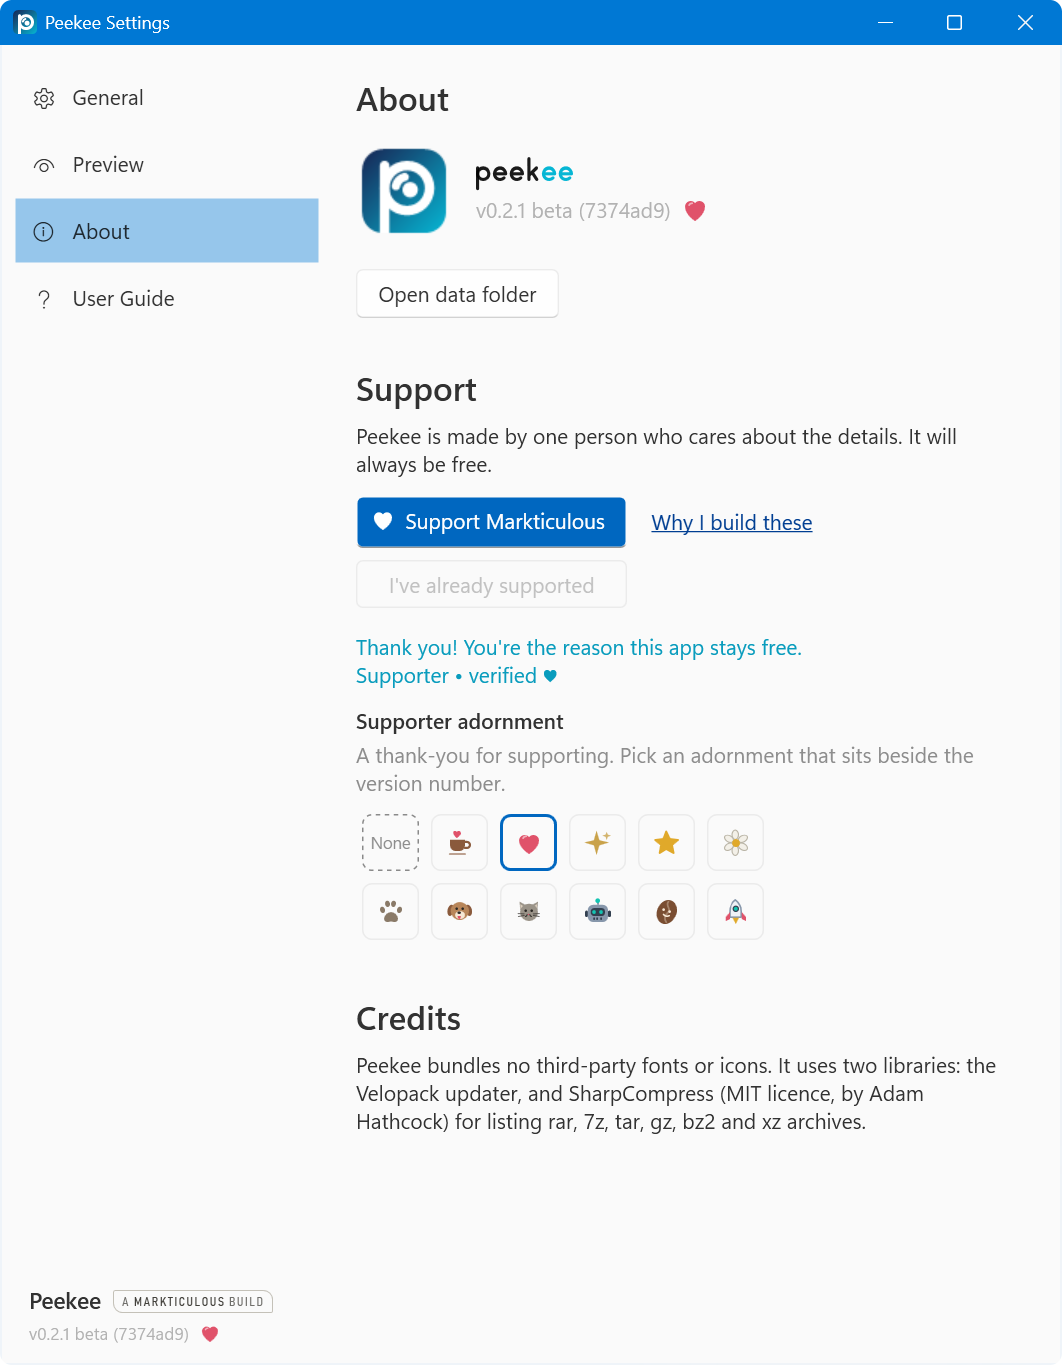
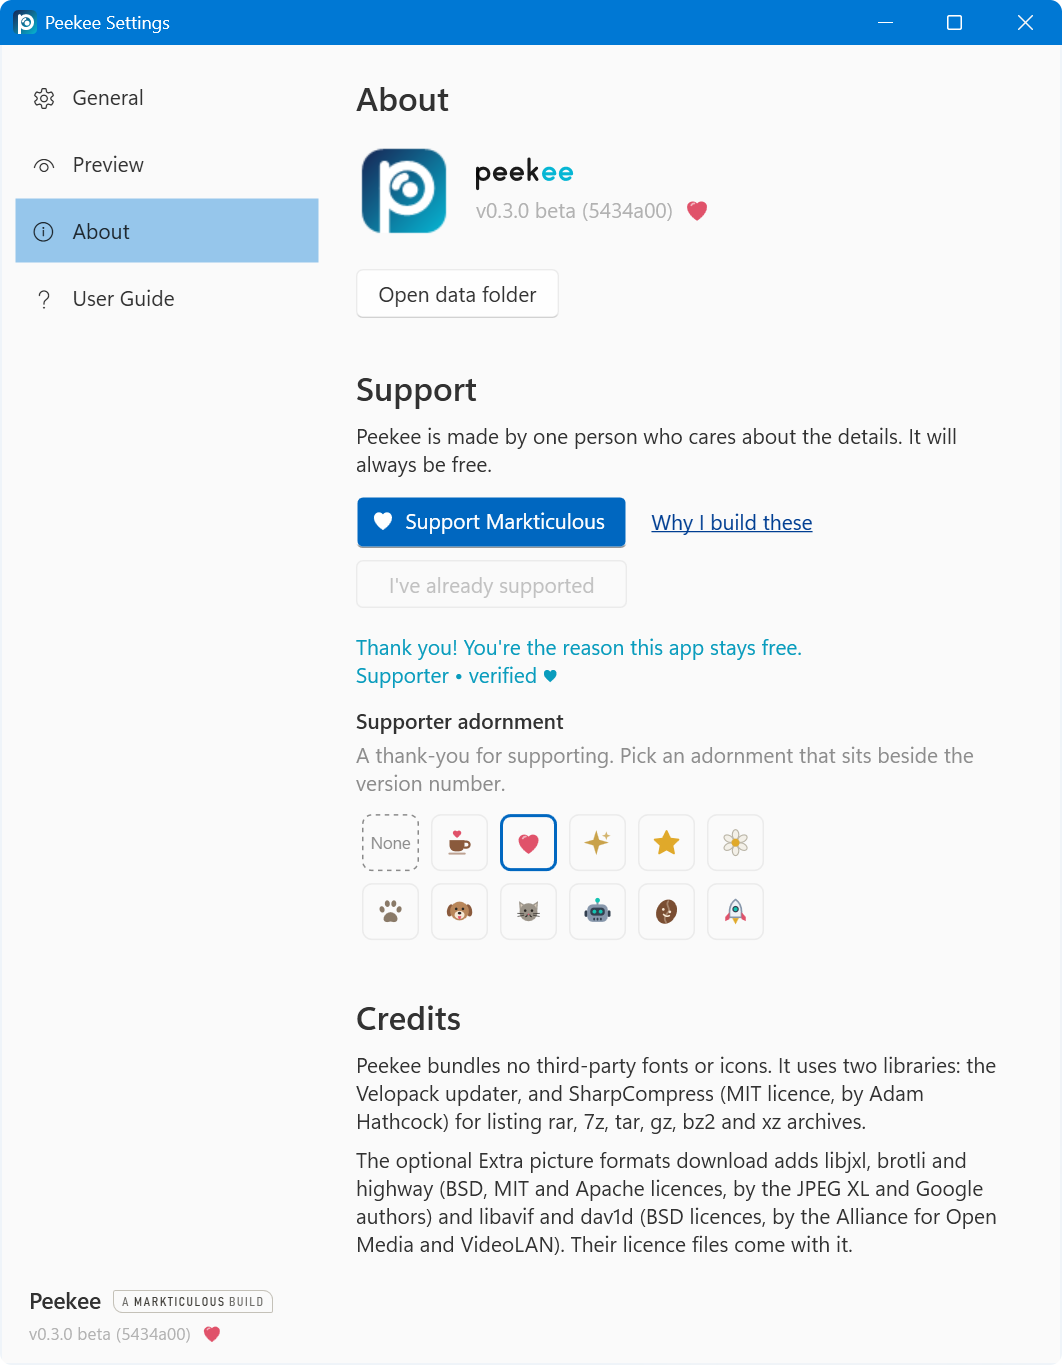
chore(guides): match the User Guides to the latest releases

diff --git a/guides/peekee/index.html b/guides/peekee/index.html
@@ -443,6 +443,8 @@ figcaption { margin-top: 10px; font-family: var(--sans); font-size: 13px; color:
         <dd>Closes the preview. This works whichever key you chose to open it.</dd>
         <dt>Arrow keys, Home, End, Page Up and Page Down</dt>
         <dd>Move the selection in the window behind, as they always do, and the preview follows to the new file. You do not have to close it first.</dd>
+        <dt>Left and Right on a file with pages</dt>
+        <dd>When the preview shows a file with several pages, such as a TIFF, an Illustrator file or a PDF drawn by Windows, <kbd>Right</kbd> turns to the next page and <kbd>Left</kbd> to the previous one. On the last page, <kbd>Right</kbd> goes back to the window behind, so in an Icons view it moves on to the next file; on the first page, <kbd>Left</kbd> does the same. PDFs shown by Edge and Office files shown by Office keep their own scrolling: use the mouse wheel there.</dd>
         <dt>Several files selected</dt>
         <dd>The preview shows the focused file, and the header says how many are selected.</dd>
         <dt>Dragging an edge</dt>
@@ -460,7 +462,7 @@ figcaption { margin-top: 10px; font-family: var(--sans); font-size: 13px; color:
           <tr><td>Copy</td><td>Copies what you are looking at. A text file (up to the largest size set in Settings) is copied as text, a picture as a picture (a PDF or multi-page TIFF copies the page showing), and anything else, including a folder, as the file itself, so Paste in File Explorer copies it.</td></tr>
           <tr><td>Copy path</td><td>Copies the full path of the file as text.</td></tr>
           <tr><td>Close</td><td>Closes the preview.</td></tr>
-          <tr><td>Previous page and Next page</td><td>Appear only for files with pages, such as a PDF or a TIFF with several pages.</td></tr>
+          <tr><td>Previous page and Next page</td><td>Appear only for files with pages, such as a PDF or a TIFF with several pages. <kbd>Left</kbd> and <kbd>Right</kbd> do the same.</td></tr>
           <tr><td>Fit page, Fit width, 100 percent, Zoom out and Zoom in</td><td>Appear for a PDF drawn by Windows. Zoom steps are 25, 50, 75, 100, 125, 150, 200, 300 and 400 percent. A button that would change nothing is greyed out.</td></tr>
         </tbody>
       </table>
@@ -525,7 +527,7 @@ figcaption { margin-top: 10px; font-family: var(--sans); font-size: 13px; color:
         <dt>General</dt>
         <dd><strong>Open the preview with</strong> is <strong>Space</strong>, <strong>Ctrl + Space</strong> or <strong>Shift + Space</strong>. Space also closes the preview, and Esc always does. If another Markticulous app already uses the combination, a warning under the setting says so; you can still choose it. <strong>Work in Open and Save dialogs</strong> lets Peekee preview inside the file dialogs of other programs. <strong>Start with Windows</strong> opens Peekee in the tray when you sign in. <strong>Check for updates automatically</strong> lets Peekee look for a newer version (see <a href="#privacy">Your privacy</a>), and <strong>Check now</strong> looks straight away. <strong>Restart to update</strong> is greyed out until an update has been downloaded.</dd>
         <dt>Preview</dt>
-        <dd><strong>Window size</strong> sets how much of the screen a preview takes at first, from 30 to 90 percent. <strong>Remember the size I drag the window to</strong> keeps the size you chose by dragging an edge, and <strong>Forget the remembered size</strong> goes back to the setting above. <strong>Show the line at the bottom</strong> turns the footer (type, size, date) on or off. <strong>Images open</strong> is <strong>Fitted to the window</strong> or <strong>At 100 percent</strong>. <strong>Background behind pictures</strong> is the colour that fills the preview behind pictures, SVG files and the pages drawn by the Windows PDF renderer. Choose the window colour (light or dark with the theme, and the default), white, light grey, neutral grey (18 percent), dark grey or black. <strong>Show a checkerboard behind transparent parts</strong> (on by default) puts a checkerboard under the picture itself, so transparent areas show; with it off they show the background colour. An SVG with the checkerboard off and the window colour chosen keeps an automatic light or dark card. <strong>PDF files</strong> is <strong>Interactive</strong> (Edge or an installed previewer first) or <strong>As images</strong> (pages drawn by Windows). Under <strong>Text</strong>, <strong>Font size</strong> and <strong>Largest file shown</strong> (1, 2, 5, 10 or 20 MB) control text and code files. Larger files show their first part only.</dd>
+        <dd><strong>Window size</strong> sets how much of the screen a preview takes at first, from 30 to 90 percent. <strong>Remember the size I drag the window to</strong> keeps the size you chose by dragging an edge, and <strong>Forget the remembered size</strong> goes back to the setting above. <strong>Show the line at the bottom</strong> turns the footer (type, size, date) on or off. <strong>Images open</strong> is <strong>Fitted to the window</strong> or <strong>At 100 percent</strong>. <strong>Background behind pictures</strong> is the colour that fills the preview behind pictures, SVG files and the pages drawn by the Windows PDF renderer. Choose the window colour (light or dark with the theme, and the default), white, light grey, neutral grey (18 percent), dark grey or black. <strong>Show a checkerboard behind transparent parts</strong> (on by default) puts a checkerboard under the picture itself, so transparent areas show; with it off they show the background colour. An SVG with the checkerboard off and the window colour chosen keeps an automatic light or dark card. <strong>PDF files</strong> is <strong>Interactive</strong> (Edge or an installed previewer first) or <strong>As images</strong> (pages drawn by Windows). Under <strong>Text</strong>, <strong>Font size</strong> and <strong>Largest file shown</strong> (1, 2, 5, 10 or 20 MB) control text and code files. Larger files show their first part only. <strong>Extra picture formats</strong> adds Peekee's own reader for JPEG XL and AVIF pictures, which Windows cannot open without an extension from the Microsoft Store. Click <strong>Add</strong> to download it (1.4 MB); nothing is downloaded until you do. <strong>Remove</strong> deletes it again. Peekee checks the download against a fingerprint it carries and does not use a file that does not match.</dd>
         <dt>About</dt>
         <dd>The Peekee name drawn as a wordmark beside the app icon, the version, <strong>Open data folder</strong> (where Peekee keeps its settings), the support section (see <a href="#support">Support Markticulous</a>) and the credits.</dd>
         <dt>User Guide</dt>
@@ -620,20 +622,22 @@ figcaption { margin-top: 10px; font-family: var(--sans); font-size: 13px; color:
       <table class="ref types">
         <thead><tr><th>Kind</th><th>Extensions</th><th>How it is shown</th></tr></thead>
         <tbody>
-          <tr><td>Pictures</td><td><code>.png .jpg .jpeg .gif .webp .bmp .ico .tif .tiff</code></td><td>Drawn by Windows. GIFs play; TIFFs with several pages show one page at a time.</td></tr>
-          <tr><td>Pictures with a codec</td><td>.heic .avif and others</td><td>Shown when Windows has the codec installed (for example the HEIF and AV1 extensions from the Microsoft Store).</td></tr>
+          <tr><td>Pictures</td><td><code>.png .jpg .jpeg .jpe .jfif .gif .webp .bmp .dib .ico .cur .tif .tiff .jxr .wdp .dds</code></td><td>Drawn by Windows. GIFs play; TIFFs with several pages show one page at a time.</td></tr>
+          <tr><td>Pictures with a codec</td><td>.heic .heif and others</td><td>Shown when Windows has the codec installed (for example the HEIF extension from the Microsoft Store).</td></tr>
+          <tr><td>JPEG XL and AVIF</td><td>.jxl .avif</td><td>Shown when Windows has the codec, or after you add <strong>Extra picture formats</strong> in Settings.</td></tr>
           <tr><td>Photoshop</td><td><code>.psd .psb</code></td><td>The flattened image Photoshop stores in the file; RGB, grey, CMYK, indexed and 1-bit, 8 and 16 bits. No layers.</td></tr>
           <tr><td>Illustrator</td><td><code>.ai .ait</code></td><td>Files saved with PDF compatibility (the default since Illustrator CS) open in the PDF view.</td></tr>
           <tr><td>Amiga and Atari pictures</td><td><code>.iff .ilbm .lbm .ham6 .ham8 .acbm .rgb8 .rgbn</code></td><td>Drawn by Peekee itself, including HAM, half-brite and pictures that change palette line by line.</td></tr>
-          <tr><td>SVG</td><td><code>.svg</code></td><td>Drawn by Peekee: shapes, paths, fills, strokes and gradients. Text and filters are left out.</td></tr>
+          <tr><td>SVG</td><td><code>.svg .svgz</code></td><td>Drawn by Peekee: shapes, paths, fills, strokes and gradients. Text and filters are left out.</td></tr>
           <tr><td>PDF</td><td><code>.pdf</code></td><td>Edge's previewer or your PDF previewer first, or the pages drawn by Windows, with zoom and page buttons.</td></tr>
           <tr><td>Office</td><td>.docx .xlsx .pptx and older Office files</td><td>Through the previewers Office installs. Without Office, the information card.</td></tr>
           <tr><td>Email</td><td><code>.eml .msg</code></td><td>Through the previewer Outlook or Windows installs, when there is one.</td></tr>
           <tr><td>WordPerfect</td><td><code>.wpd .wp .wp5 .wp6 .wp7</code></td><td>The text only, read by Peekee, for WordPerfect 5 and 6 onwards.</td></tr>
+          <tr><td>Rich Text</td><td><code>.rtf</code></td><td>Shown as a formatted page, read by Windows' own RTF reader.</td></tr>
           <tr><td>Markdown</td><td><code>.md .markdown</code></td><td>Shown as a formatted page, with pictures from the same folder.</td></tr>
-          <tr><td>Data</td><td><code>.csv .tsv .json</code></td><td>CSV and TSV as a table; JSON laid out with indents.</td></tr>
-          <tr><td>Text and code</td><td><code>.txt .log .ini .cfg .conf .config .xml .yaml .yml .toml .html .htm .css .scss .js .ts .tsx .jsx .vue .py .ps1 .psm1 .bat .cmd .sh .sql .cs .vb .xaml .razor .cshtml .c .h .cpp .hpp .java .kt .swift .go .rs .rb .php .lua .tex .reg .srt .nfo .diff .patch .csproj .sln .slnx .props .targets .resx .editorconfig .gitignore</code></td><td>With line numbers. Any other file that turns out to be text is shown the same way.</td></tr>
-          <tr><td>Archives</td><td><code>.zip .7z .rar .tar .tar.gz .tgz .tar.bz2 .tar.xz .gz .bz2 .xz .iso .cab .lzh .lha .jar .nupkg .vsix</code></td><td>The list of what is inside, with sizes and dates. Nothing is unpacked.</td></tr>
+          <tr><td>Data</td><td><code>.csv .tsv .json .ipynb</code></td><td>CSV and TSV as a table; JSON laid out with indents.</td></tr>
+          <tr><td>Text and code</td><td><code>.txt .log .ini .cfg .conf .config .xml .yaml .yml .toml .html .htm .css .scss .js .ts .tsx .jsx .vue .py .ps1 .psm1 .bat .cmd .sh .sql .cs .vb .xaml .razor .cshtml .c .h .cpp .hpp .java .kt .swift .go .rs .rb .php .lua .tex .reg .srt .nfo .diff .patch .csproj .sln .slnx .props .targets .resx .editorconfig .gitignore .jsonc .json5 .ndjson .jsonl .env</code>, and files named Makefile or Dockerfile</td><td>With line numbers. Any other file that turns out to be text is shown the same way.</td></tr>
+          <tr><td>Archives</td><td><code>.zip .7z .rar .tar .tar.gz .tgz .tar.bz2 .tar.xz .gz .bz2 .xz .iso .cab .lzh .lha .jar .nupkg .vsix .epub .apk .appx .msix .whl .xpi</code></td><td>The list of what is inside, with sizes and dates. Nothing is unpacked.</td></tr>
           <tr><td>Fonts</td><td><code>.ttf .otf .ttc</code></td><td>A sample of the font at three sizes.</td></tr>
           <tr><td>Folders</td><td>any folder</td><td>How many items it holds, its total size and the five newest items.</td></tr>
           <tr><td>Everything else</td><td>any file</td><td>A card with the icon, type, size and dates. Any previewer installed on your PC for that type is used first.</td></tr>

diff --git a/guides/peekee/version.js b/guides/peekee/version.js
@@ -1,1 +1,1 @@
-window.PEEKEE_VERSION = '0.2.1';
+window.PEEKEE_VERSION = '0.3.0';
